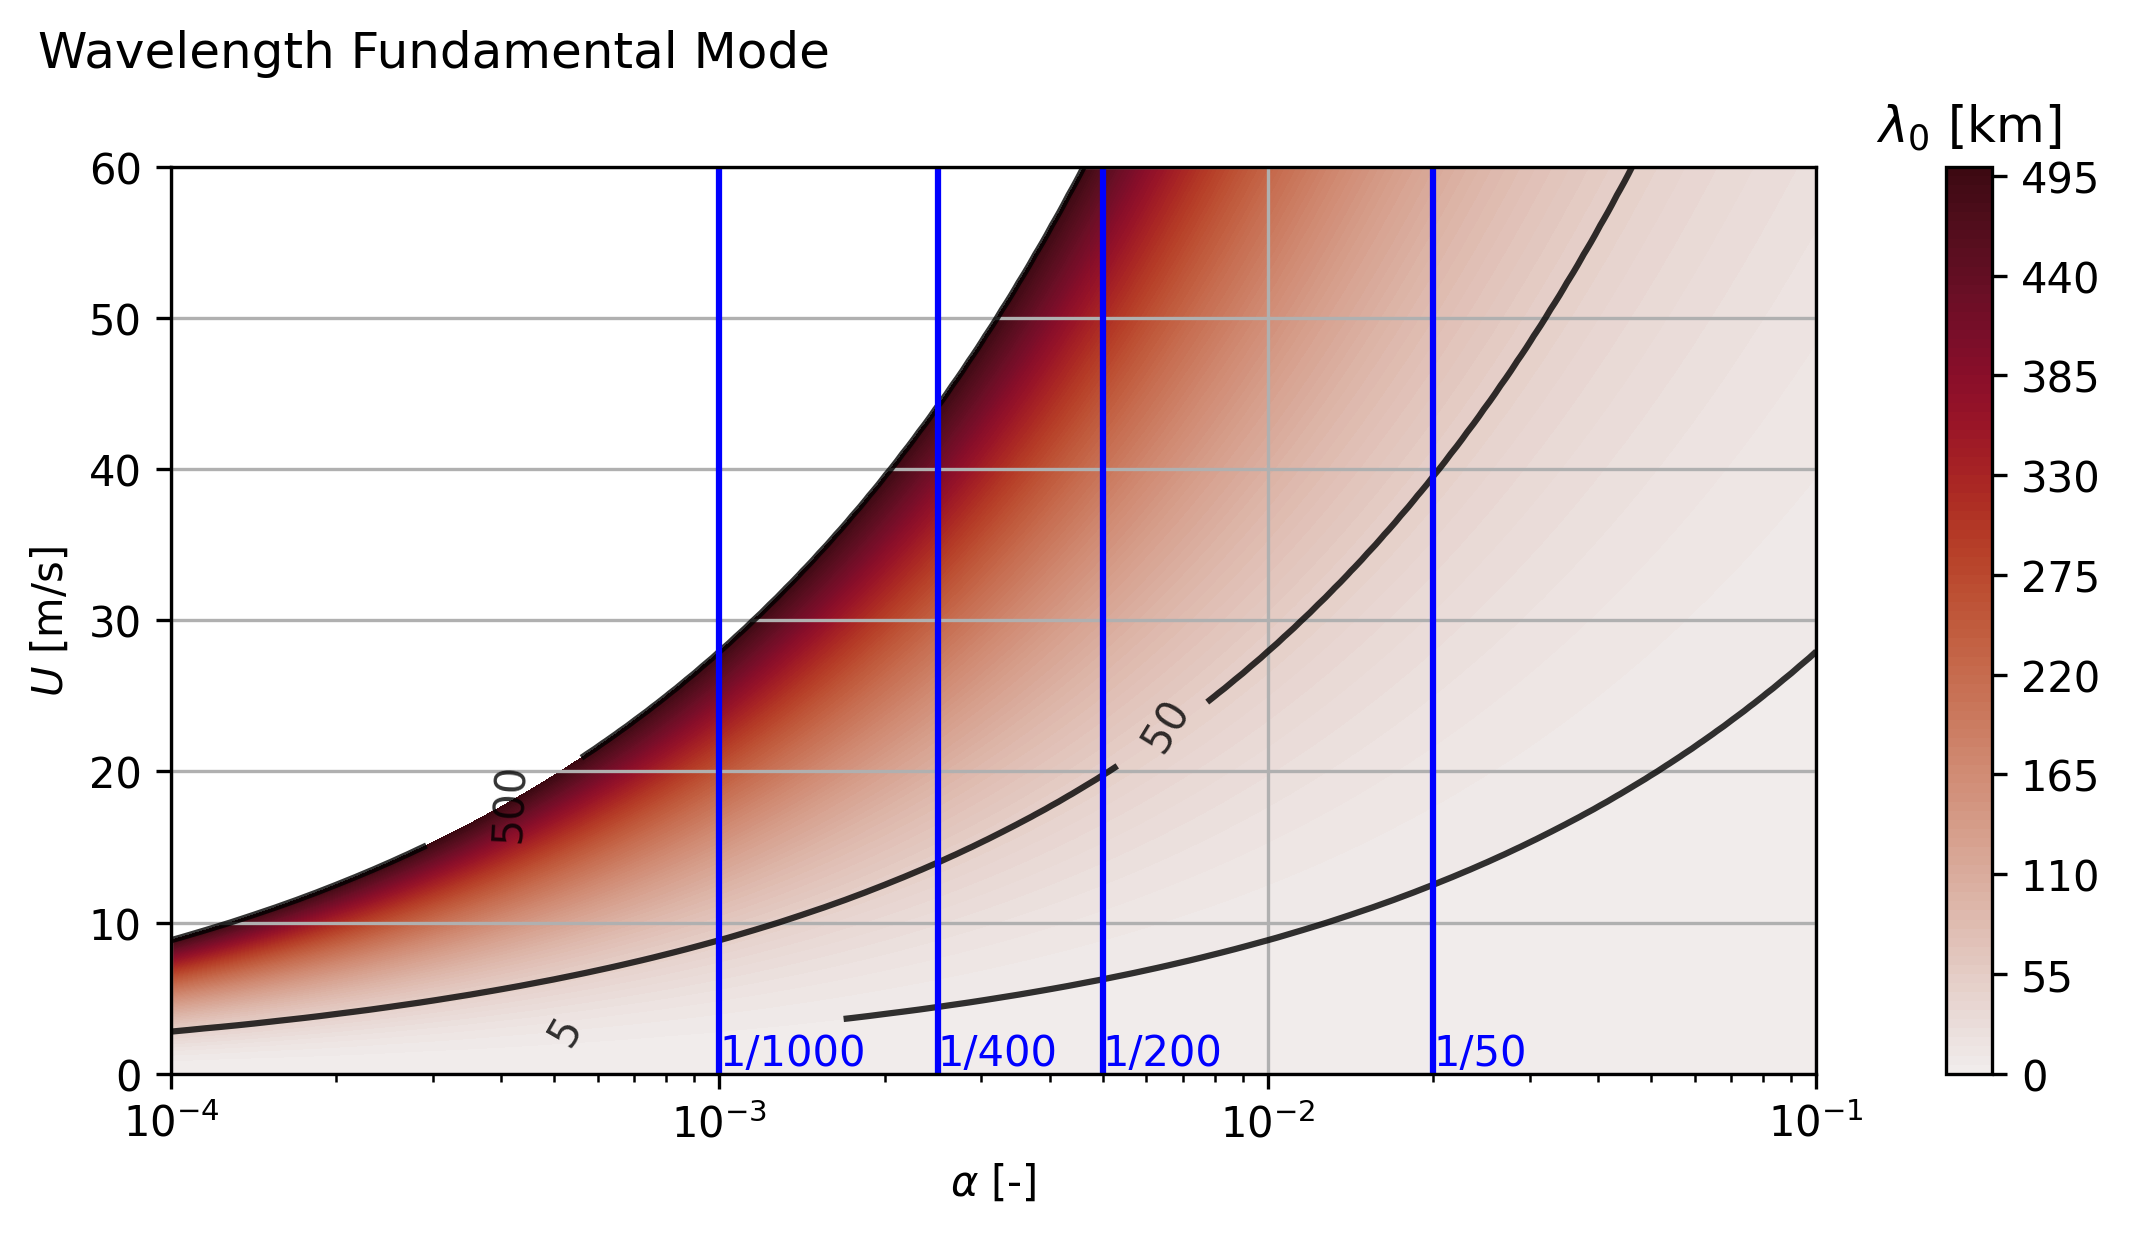
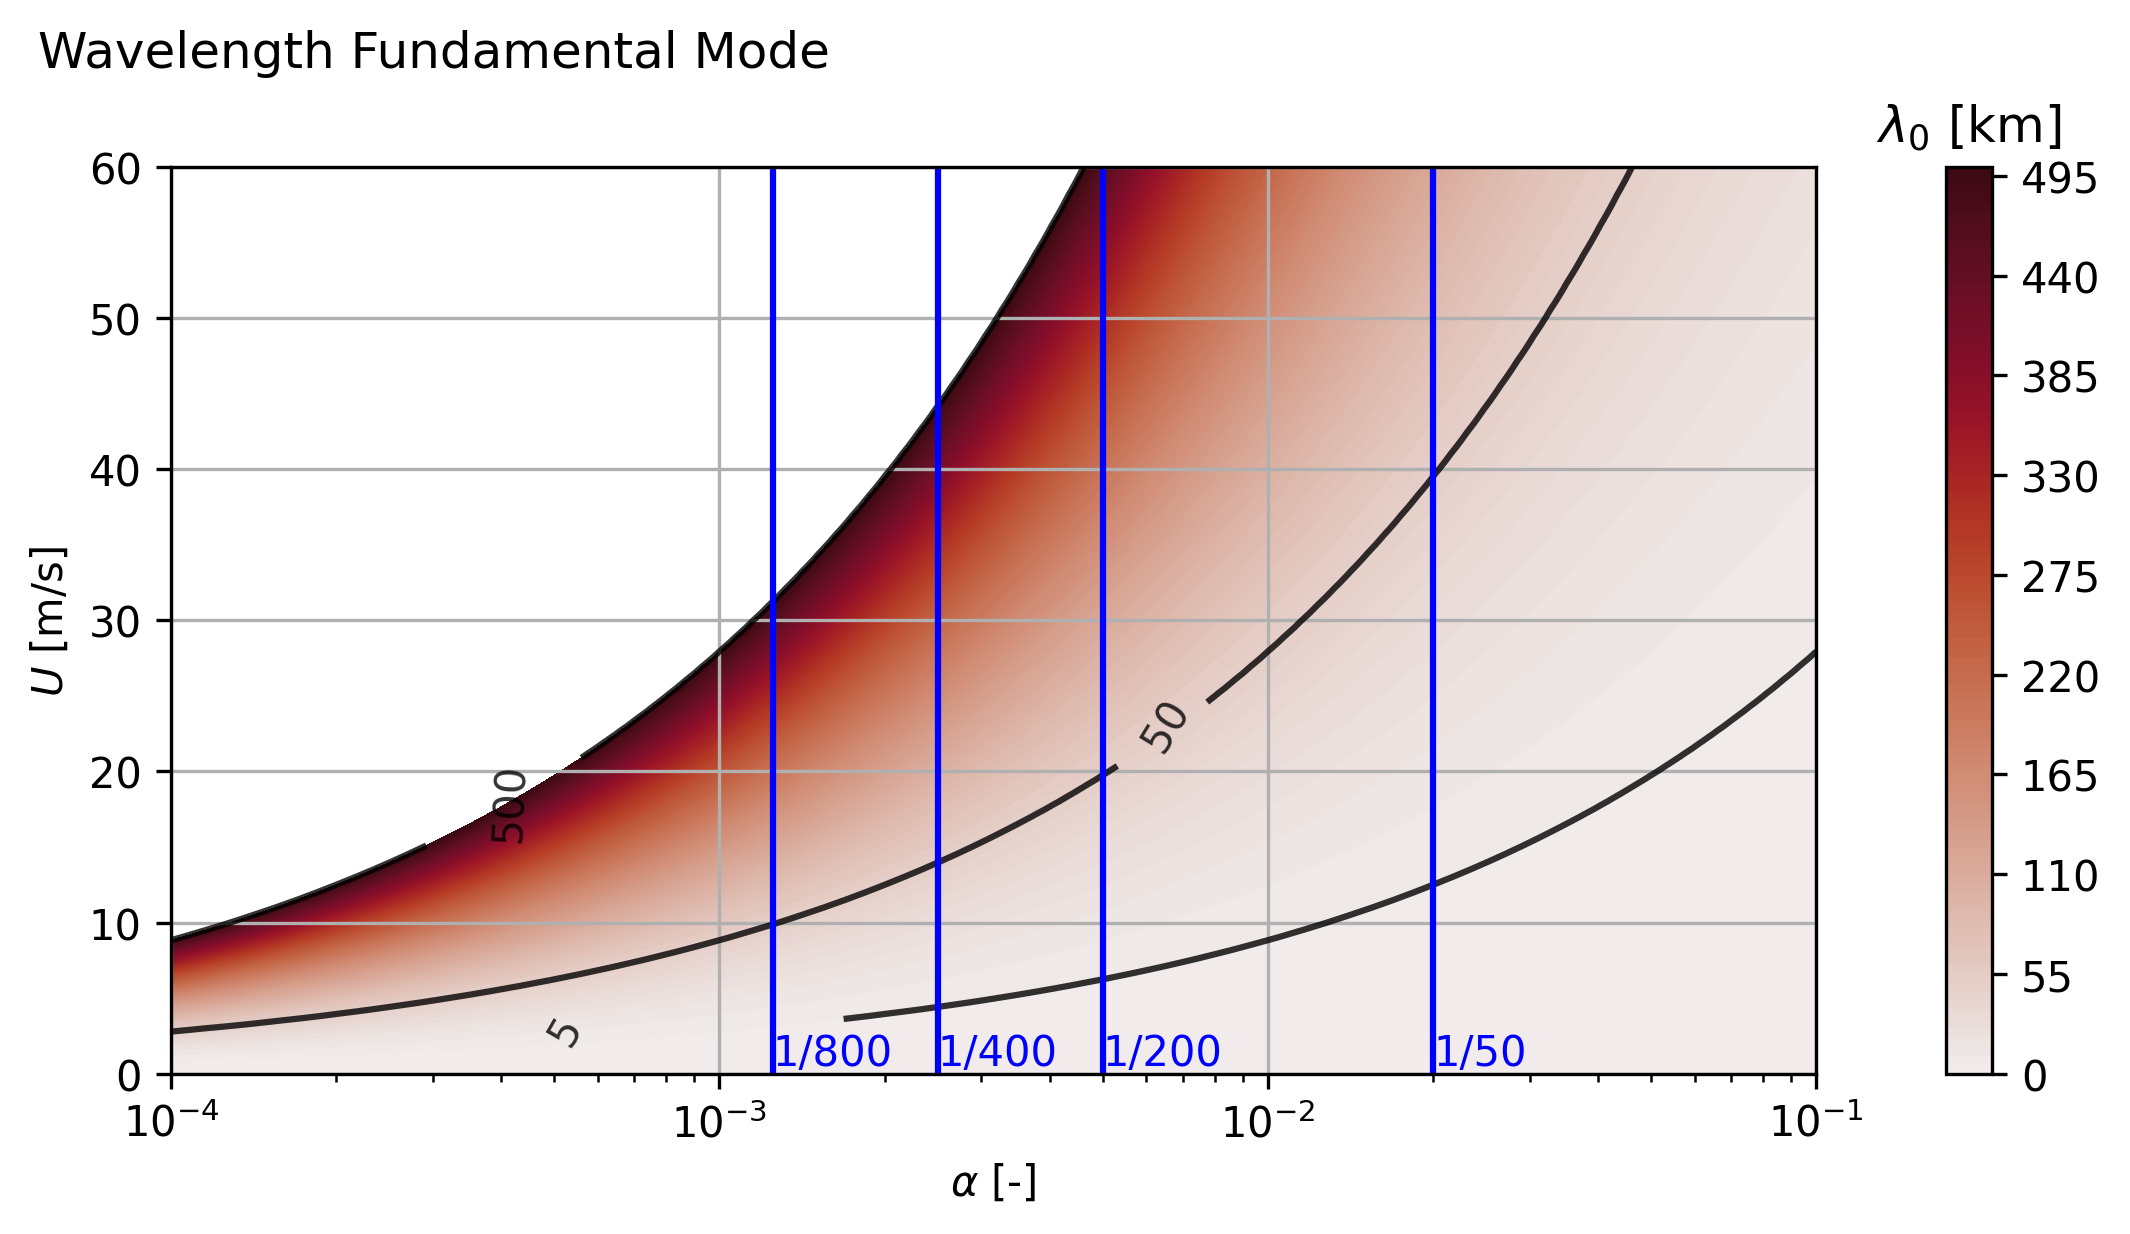
update figures

Changed region(s): [[0.3099, 0.154, 0.4338, 0.8622]]

diff --git a/theory/theory_part2.py b/theory/theory_part2.py
@@ -60,7 +60,7 @@ def theory_figure_speed_vs_size_alpha(
     plt.ylabel("$a$ [km]")
     plt.grid()
     plt.xscale("log")
-    for _angle in [1 / 50, 1 / 400, 1 / 200, 1 / 1000]:
+    for _angle in [1 / 50, 1 / 400, 1 / 200, 1 / 800]:
         plt.text(
             _angle,
             0.01,
@@ -131,7 +131,7 @@ def theory_figure_wavelength_vs_alpha_speed(
     plt.ylabel("$U$ [m/s]")
     plt.grid()
     plt.xscale("log")
-    for _angle in [1 / 50, 1 / 400, 1 / 200, 1 / 1000]:
+    for _angle in [1 / 50, 1 / 400, 1 / 200, 1 / 800]:
         plt.text(
             _angle,
             0.01,
